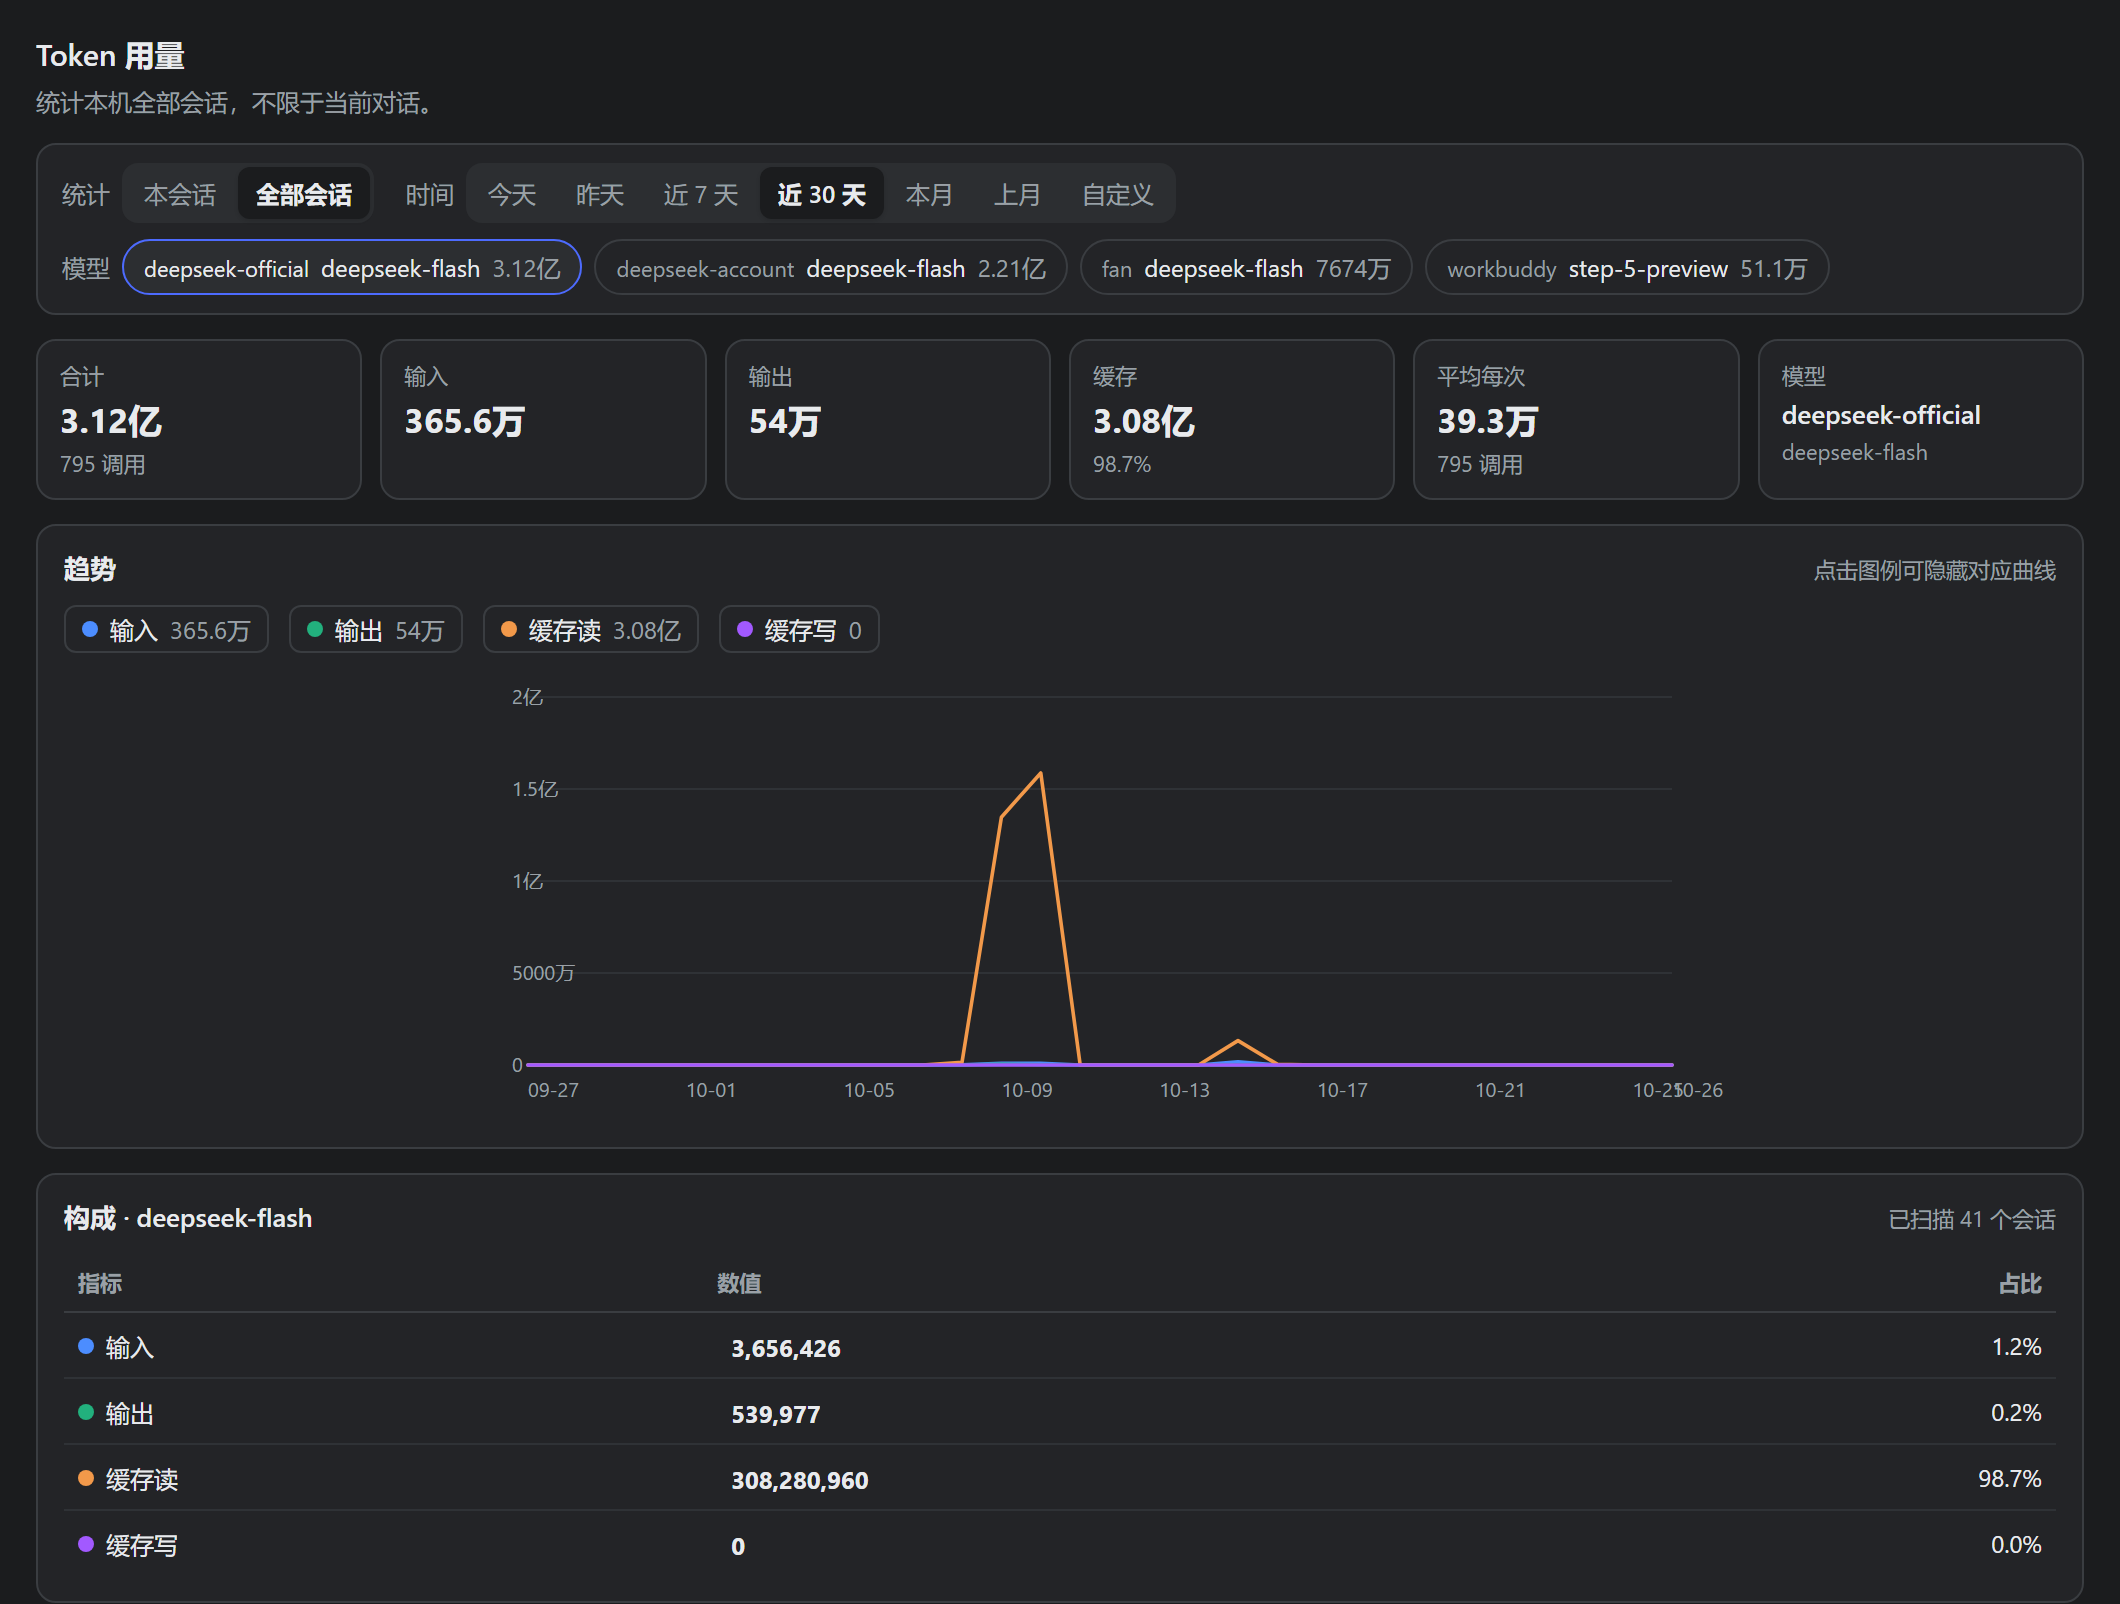
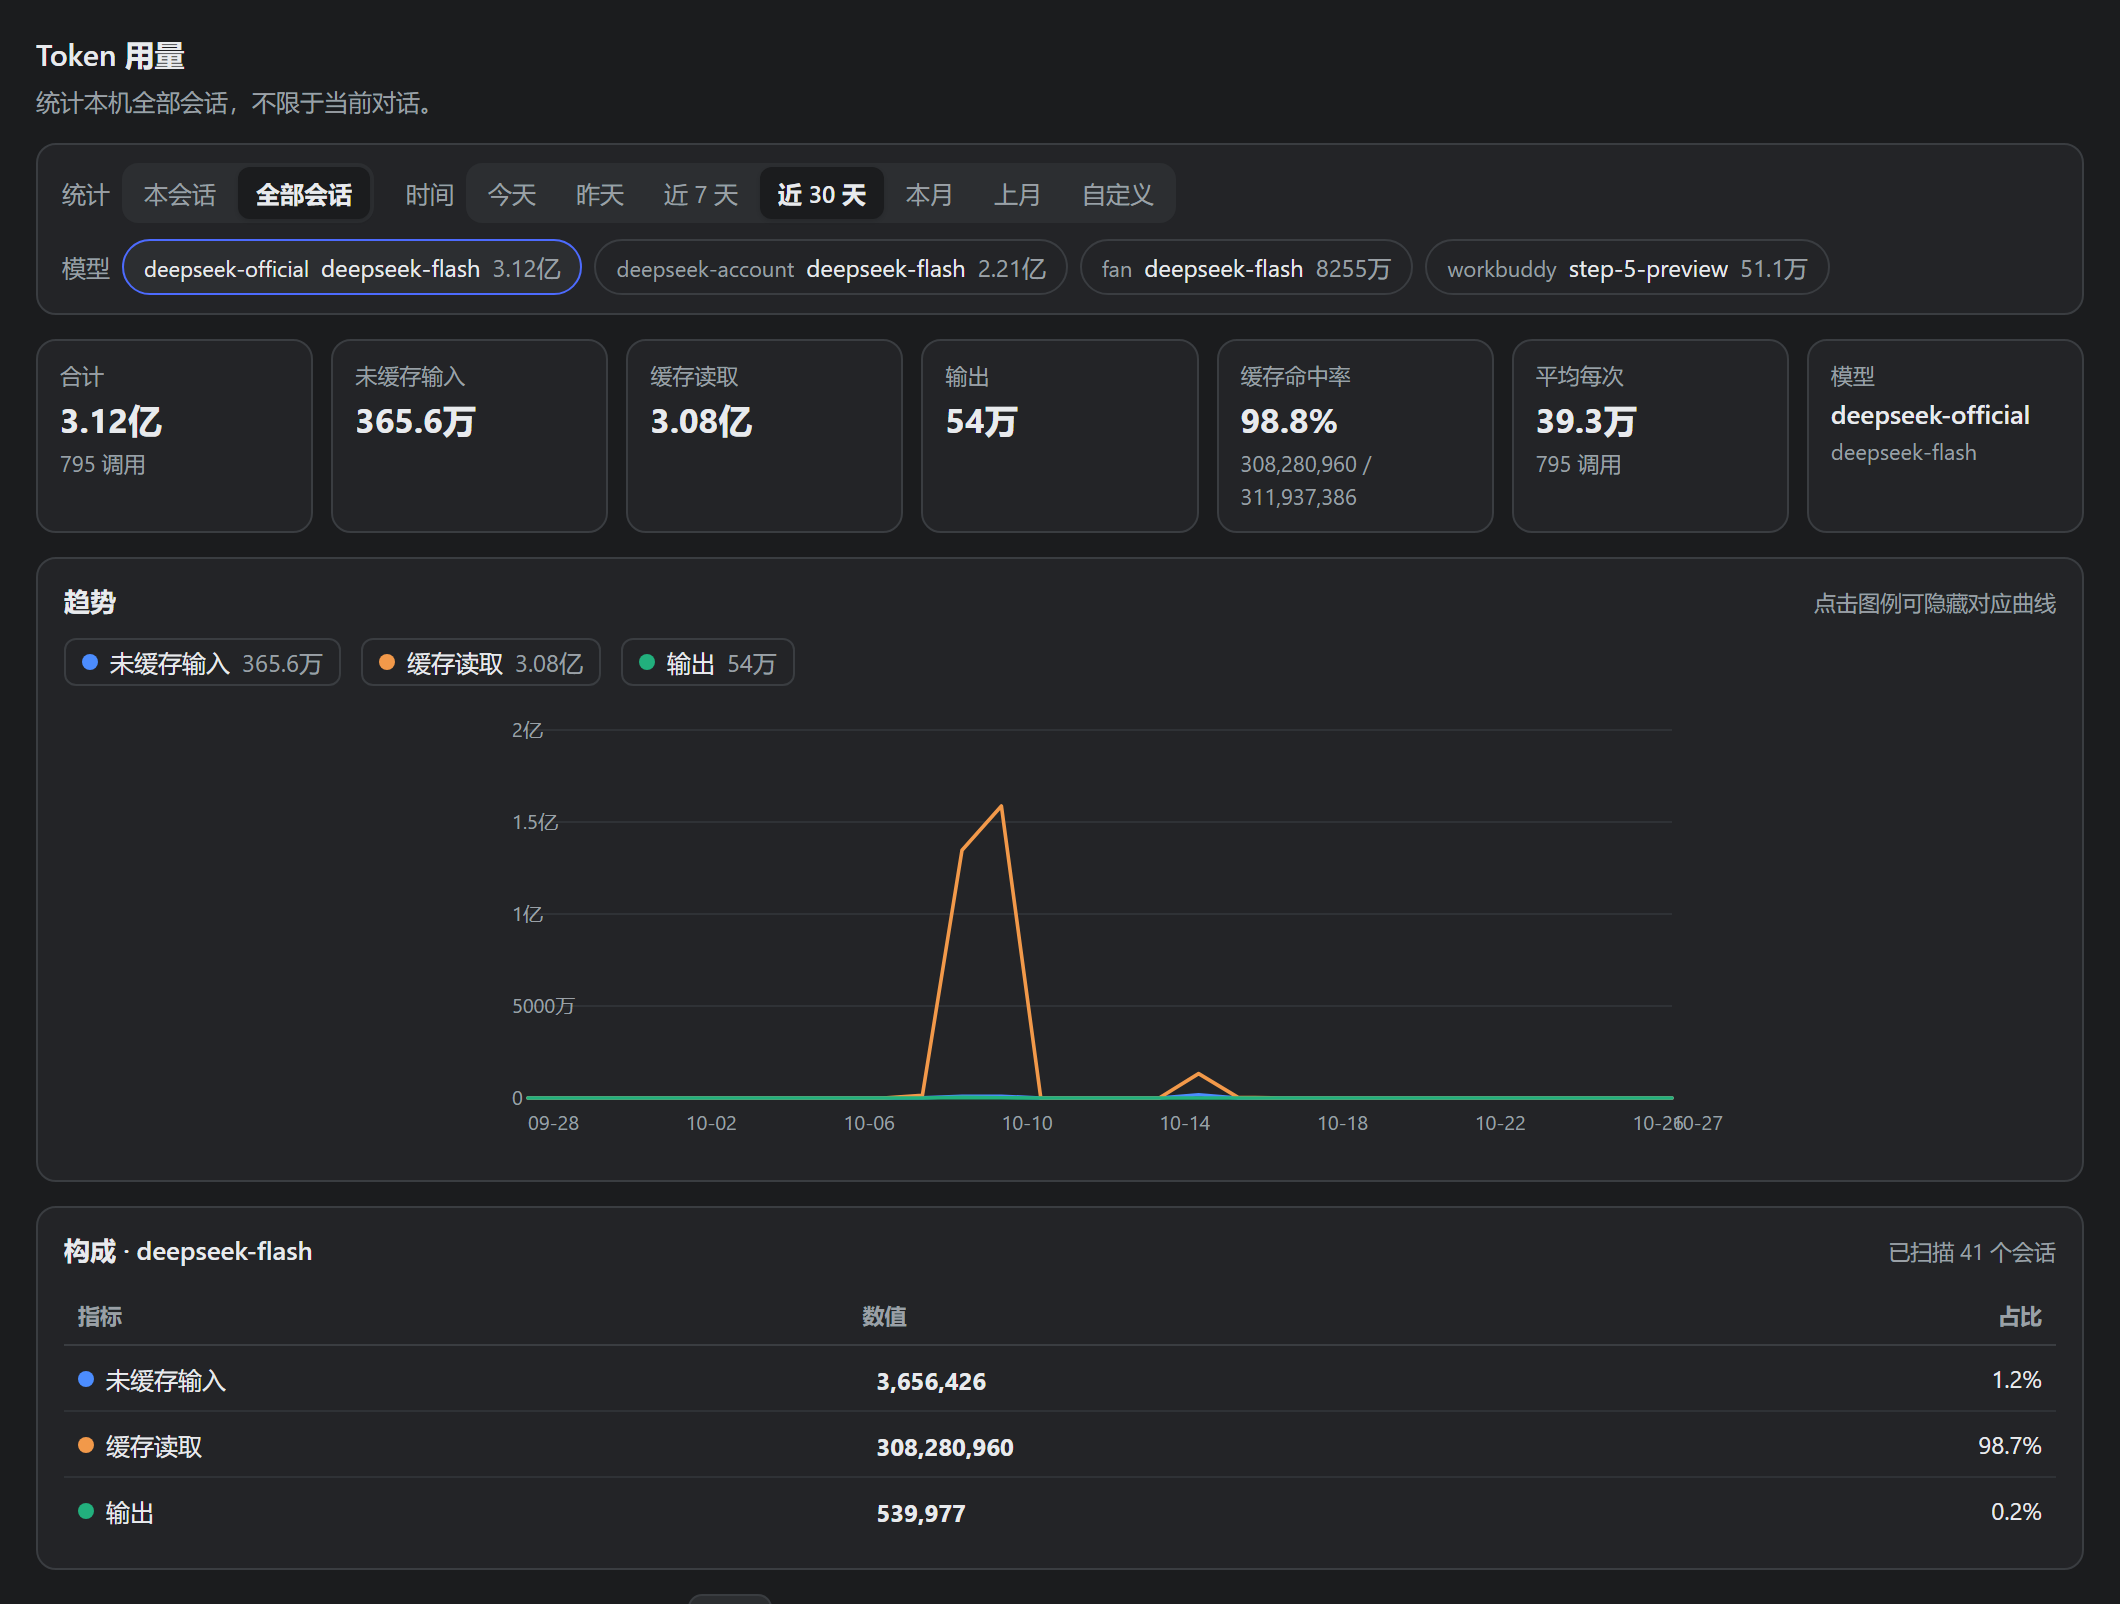
Chart three token buckets and drop the always-zero cache write

diff --git a/client.js b/client.js
@@ -40,11 +40,13 @@ window.__ModuleLoader__.load({
       'ui.pickModelHint': '这个范围里有 {n} 个模型，选一个查看它的用量。',
       'ui.noModel': '这个范围里没有模型调用记录。',
       'ui.total': '合计',
+      'ui.uncachedInput': '未缓存输入',
       'ui.input': '输入',
       'ui.output': '输出',
-      'ui.cacheRead': '缓存读',
+      'ui.cacheRead': '缓存读取',
       'ui.cacheWrite': '缓存写',
       'ui.cache': '缓存',
+      'ui.cacheHitRate': '缓存命中率',
       'ui.reasoning': '推理',
       'ui.calls': '调用',
       'ui.api': 'API',
@@ -92,11 +94,13 @@ window.__ModuleLoader__.load({
       'ui.pickModelHint': 'This range has {n} models. Pick one to see its usage.',
       'ui.noModel': 'No model calls recorded in this range.',
       'ui.total': 'Total',
+      'ui.uncachedInput': 'Uncached input',
       'ui.input': 'Input',
       'ui.output': 'Output',
       'ui.cacheRead': 'Cache read',
       'ui.cacheWrite': 'Cache write',
       'ui.cache': 'Cache',
+      'ui.cacheHitRate': 'Cache hit rate',
       'ui.reasoning': 'Reasoning',
       'ui.calls': 'Calls',
       'ui.api': 'API',
@@ -121,11 +125,18 @@ window.__ModuleLoader__.load({
 
     // Fixed semantic colours: a metric keeps its hue across every range, bucket
     // and filter, so a colour always means the same thing on this chart.
+    //
+    // Three lines, not four. The four buckets the providers define are
+    // uncached input / cache read / cache write / output, but cacheWrite is
+    // never populated: DeepSeek's adapter maps only
+    // prompt_cache_hit_tokens to cacheReadTokens and has no wire field for
+    // cache creation, so a fourth line would draw a flat zero forever.
+    // Charting a metric that cannot be non-zero teaches the reader to ignore
+    // the chart. See NOTES.md §三.14.
     const METRICS = [
-      { key: 'input', label: 'ui.input', color: '#4c8dff' },
-      { key: 'output', label: 'ui.output', color: '#22b07d' },
+      { key: 'input', label: 'ui.uncachedInput', color: '#4c8dff' },
       { key: 'cacheRead', label: 'ui.cacheRead', color: '#f2994a' },
-      { key: 'cacheWrite', label: 'ui.cacheWrite', color: '#a259ff' },
+      { key: 'output', label: 'ui.output', color: '#22b07d' },
     ];
 
     // The unit suffix follows the UI language: Chinese reads 万 / 亿, not K / M.
@@ -862,12 +873,13 @@ window.__ModuleLoader__.load({
         h('th', null, t('ui.share'))));
 
       const total = combo.total || 0;
-      const rows = [
-        { key: 'input', label: t('ui.input'), value: combo.input || 0 },
-        { key: 'output', label: t('ui.output'), value: combo.output || 0 },
-        { key: 'cacheRead', label: t('ui.cacheRead'), value: combo.cacheRead || 0 },
-        { key: 'cacheWrite', label: t('ui.cacheWrite'), value: combo.cacheWrite || 0 },
-      ].map(function (row) {
+      // Derived from METRICS rather than hand-listed: a metric must never show
+      // in the table while missing from the chart, or vice versa. That drift is
+      // what left a permanently-zero 缓存写 row here after the line was dropped.
+      const rows = METRICS.map(function (metric) {
+        const row = { key: metric.key, label: t(metric.label), value: combo[metric.key] || 0 };
+        return row;
+      }).map(function (row) {
         const metric = METRICS.filter(function (m) { return m.key === row.key; })[0];
         const share = total > 0 ? ((row.value / total) * 100).toFixed(1) + '%' : '—';
         const barW = total > 0 ? Math.max(2, Math.round((row.value / total) * 60)) : 2;
@@ -1135,7 +1147,12 @@ window.__ModuleLoader__.load({
       }
 
       const calls = sums.calls;
-      const cacheTotal = sums.cacheRead + sums.cacheWrite;
+      // Billed input = uncached input + cache reads (cacheWrite is always 0 for
+      // DeepSeek, see METRICS). The hit rate is the share of prompt input that
+      // was served from cache — the one number here that is a ratio rather than
+      // a token count, and the reason caching is worth watching at all.
+      const promptInput = sums.input + sums.cacheRead;
+      const hitRate = promptInput > 0 ? (sums.cacheRead / promptInput) * 100 : 0;
 
       const cards = h('div', { className: 'tku-cards' },
         h(StatCard, {
@@ -1144,13 +1161,15 @@ window.__ModuleLoader__.load({
           full: formatFull(sums.total),
           note: formatFull(calls) + ' ' + t('ui.calls'),
         }),
-        h(StatCard, { label: t('ui.input'), value: formatCount(sums.input), full: formatFull(sums.input) }),
+        h(StatCard, { label: t('ui.uncachedInput'), value: formatCount(sums.input), full: formatFull(sums.input) }),
+        h(StatCard, { label: t('ui.cacheRead'), value: formatCount(sums.cacheRead), full: formatFull(sums.cacheRead) }),
         h(StatCard, { label: t('ui.output'), value: formatCount(sums.output), full: formatFull(sums.output) }),
         h(StatCard, {
-          label: t('ui.cache'),
-          value: formatCount(cacheTotal),
-          full: formatFull(cacheTotal),
-          note: sums.total > 0 ? ((cacheTotal / sums.total) * 100).toFixed(1) + '%' : undefined,
+          label: t('ui.cacheHitRate'),
+          value: promptInput > 0 ? hitRate.toFixed(1) + '%' : '—',
+          note: promptInput > 0
+            ? formatFull(sums.cacheRead) + ' / ' + formatFull(promptInput)
+            : undefined,
         }),
         h(StatCard, {
           label: t('ui.avg'),
@@ -1193,10 +1212,7 @@ window.__ModuleLoader__.load({
         h('div', { className: 'tku-legend' },
           METRICS.map(function (m) {
             const off = Boolean(hiddenMetrics[m.key]);
-            const sum = m.key === 'input' ? sums.input
-              : m.key === 'output' ? sums.output
-              : m.key === 'cacheRead' ? sums.cacheRead
-              : sums.cacheWrite;
+            const sum = sums[m.key] || 0;
             return h('button', {
               key: m.key,
               type: 'button',

diff --git a/NOTES.md b/NOTES.md
@@ -61,14 +61,26 @@
 13. **语言在渲染时读取**（`appCtx.get('locale').getLocale().active`），不在启动时缓存，
     否则在设置里切换语言后单位不会跟着变。
     没有 locale 服务时默认按 zh 处理：本包的中文文案是主体，英文单位配中文标签更突兀。
+14. **只画三条线，去掉「缓存写」**。协议层的桶有四个（未缓存输入 / 缓存读 / 缓存写 / 输出），
+    但 DeepSeek 适配器 `dsh-llm-deepseek` 的 `mapUsage()` 只产出 `inputTokens` 与
+    `cacheReadTokens`，没有任何字段映射到 `cacheWriteTokens`——OpenAI 兼容协议里没有
+    「创建缓存」这个计数字段（`cache_creation_input_tokens` 是 Anthropic 的）。
+    实测：本机 3840 条用量事件中 `cacheWriteTokens` 出现 1403 次，**全部为 0**。
+    ↳ 恒为 0 的曲线没有信息量，还会训练读者忽略整张图，所以不画。
+    ↳ 缓存收益改用「缓存命中率」卡片表达（缓存读 ÷ 提示输入），本机约 98.8%。
+    ↳ 内部累加仍保留 `cacheWrite`：数据将来真的出现时，卡片和表格不用改结构就能显示。
+15. **「构成」表格从 `METRICS` 派生**，不手工列行。之前手写四行，去掉缓存写那条线之后
+    表格还在显示一个恒为 0 的行——图表和表格的指标集必须只有一个来源。
 
 ## 四、遗留 / 后续可做
 
 - `refresh=1` 仍是同步全量重扫。会话量再涨一个量级时，应改成后台任务 + 进度回报。
 - `reasoning` 已在 `totals` 里但界面不画。要不要做成第五条线（或只放进悬停提示）待定。
 - 图表缺一个「表格视图」做无障碍替代。
-- 未在真实桌面 GUI 里做过视觉回归。现有替代手段是：33 个逻辑测试 +
+- 未在真实桌面 GUI 里做过视觉回归。现有替代手段是：36 个逻辑测试 +
   截图管线（真实组件渲染 + 像素断言），但没有真人看过渲染结果。
+- `reasoningTokens`（思维链，本机 1289 条非零，约占输出 26.5%）有数据但没画。
+  它与输出是包含关系，同轴会重叠；要不要做成比率卡片或第四条线待定。
 - `formatFull` 仍用 `toLocaleString()`（`312,477,363`），中文习惯其实也接受
   `3,1247,7363` 这种四位分组，但英文界面下那样是错的。目前只有悬停提示用到它，维持现状。
 - 截图管线依赖本机 Chrome 与 `~/.dsh/sessions` 里的真实会话；在没有会话的机器上

diff --git a/CHANGELOG.md b/CHANGELOG.md
@@ -1,5 +1,21 @@
 # Changelog
 
+## 0.3.0
+
+指标从四个改成三个，并按数据实际能填满的桶重新命名。
+
+### 变更
+
+- **移除「缓存写」**：`cacheWriteTokens` 在本机 3840 条真实用量事件里出现 1403 次，
+  **全部为 0**。原因是 DeepSeek 适配器只把 `prompt_cache_hit_tokens` 映射成
+  `cacheReadTokens`，协议里没有「创建缓存」字段。画一条恒为 0 的线没有信息量。
+- **重命名**：「输入」→「未缓存输入」，「缓存读」→「缓存读取」。
+  原来两个名字容易和「缓存命中」混淆，而后者就是同一个字段。
+- **新增「缓存命中率」卡片**：缓存读 ÷（未缓存输入 + 缓存读），本机实测 98.8%。
+  缓存带来的收益用比率表达比再画一条线更直接。
+- **更快看出缓存效果**：「构成」表格改为从 `METRICS` 派生，不再手工列四行，
+  避免表格和图表再次不一致。
+
 ## 0.2.1
 
 布局调整：控件归位，图例上移。
